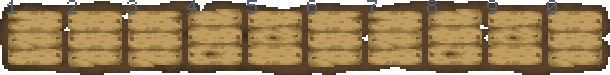
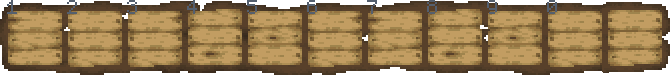
basic debug changes and updated hotbar GUI

diff --git a/Assets/Scripts/Inventario/UI/HotbarDisplay.cs b/Assets/Scripts/Inventario/UI/HotbarDisplay.cs
@@ -24,7 +24,8 @@ public class HotbarDisplay : StaticInventoryDisplay
     public PlayerInventoryHolder PlayerInv;
 
     [Header("Tool GameObjects")]
-    public GameObject hoe, bucket, rexona, blank1, blank2, hand;
+    public GameObject hoe, bucket, blank1, blank2, blank3, hand;
+    public ToolItemData hoeData, bucketData, blank1Data, blank2Data, blank3Data;
 
     private InventoryItemData gameobj1, gameobj2, gameobj3, gameibj4, gameobj5;
 
@@ -219,6 +220,11 @@ public class HotbarDisplay : StaticInventoryDisplay
         return slots[_currentIndex];
     }
 
+    public void UpdateInventorySlotWithIndex(InventoryItemData data, int amount, int index)
+    {
+        //TODO: Hacer que se pueda añdir al inventario en un slot específico, aunque tal vez habría que hacerlo en inventorySystem.
+    }
+
     private void Update()
     {
 
@@ -235,6 +241,9 @@ public class HotbarDisplay : StaticInventoryDisplay
         {
             if (MouseWheelValue() > 0.1f && !CurrentIndexIsSpecialSlotAndYouAreHoldingCtrl()) ChangeIndex(-1);
             if (MouseWheelValue() < -0.1f && !CurrentIndexIsSpecialSlotAndYouAreHoldingCtrl()) ChangeIndex(1);
+
+            if (MouseWheelValue() > 0.1f && CurrentIndexIsSpecialSlotAndYouAreHoldingCtrl()) ChangeAbilityIndex(-1);
+            if (MouseWheelValue() < -0.1f && CurrentIndexIsSpecialSlotAndYouAreHoldingCtrl()) ChangeAbilityIndex(1);
 
             if (GetItemData() == null) return;
 
@@ -502,6 +511,33 @@ public class HotbarDisplay : StaticInventoryDisplay
         if (_currentIndex < 0) _currentIndex = _maxIndexSize;
 
         SlotCurrentIndex().ToggleHighlight();
+    }
+
+    public void ChangeAbilityIndex(int newIndex)
+    {
+        SlotCurrentIndex().ToggleHighlight();
+        if (newIndex < 0) _currentIndex = 0;
+        if (newIndex > _maxIndexSize) newIndex = _maxIndexSize;
+
+        _currentIndex = newIndex;
+        SlotCurrentIndex().ToggleHighlight();
+
+        if (GetItemData() == null) return;
+
+        NameDisplay.text = GetItemData().Nombre;
+
+        if (NameDisplay.GetComponent<NameDisplayController>()._ContadorActivo)
+        {
+            NameDisplay.GetComponent<NameDisplayController>().timer = 2;
+        }
+        else
+        {
+            NameDisplay.GetComponent<Animation>().Play("NameDisplayEntrar");
+            StartCoroutine(NameDisplay.GetComponent<NameDisplayController>().waiter());
+            NameDisplay.GetComponent<NameDisplayController>()._ContadorActivo = true;
+            NameDisplay.GetComponent<NameDisplayController>().timer = 2;
+            NameDisplay.GetComponent<NameDisplayController>()._yaAnimo = false;
+        }
     }
 
     private void SetIndex(int newIndex)

diff --git a/Assets/Scripts/Inventario/InventorySystem.cs b/Assets/Scripts/Inventario/InventorySystem.cs
@@ -20,7 +20,7 @@ public class InventorySystem
     public InventorySystem(int tamaño) //Constructo que coloca la cantidad de Slots
     {
         _gold = 0;
-        CreateInventory(tamaño);        
+        CreateInventory(tamaño);
     }
 
     public InventorySystem(int tamaño, int gold)
@@ -45,7 +45,7 @@ public class InventorySystem
         {
             foreach (var slot in invSlot)
             {
-                if(slot.EnoughRoomLeftInStack(cantidadParaAñadir))
+                if (slot.EnoughRoomLeftInStack(cantidadParaAñadir))
                 {
                     slot.AddToStack(cantidadParaAñadir);
                     OnInventorySlotChanged?.Invoke(slot);
@@ -53,16 +53,16 @@ public class InventorySystem
                 }
             }
         }
-        
+
         if (HaySlotLibre(out InventorySlot SlotLibre)) //Busca el primer slot libre
         {
-            if(SlotLibre.EnoughRoomLeftInStack(cantidadParaAñadir))
+            if (SlotLibre.EnoughRoomLeftInStack(cantidadParaAñadir))
             {
                 SlotLibre.UpdateInventorySlot(itemAAñadir, cantidadParaAñadir);
                 OnInventorySlotChanged?.Invoke(SlotLibre);
                 return true;
             }
-            //Implementar sólo añadir lo que sepeuda añadir al stack, y dejar el resto en otro stack libre
+            //Implementar sólo añadir lo que se peuda añadir al stack, y dejar el resto en otro stack libre
         }
 
         return false;
